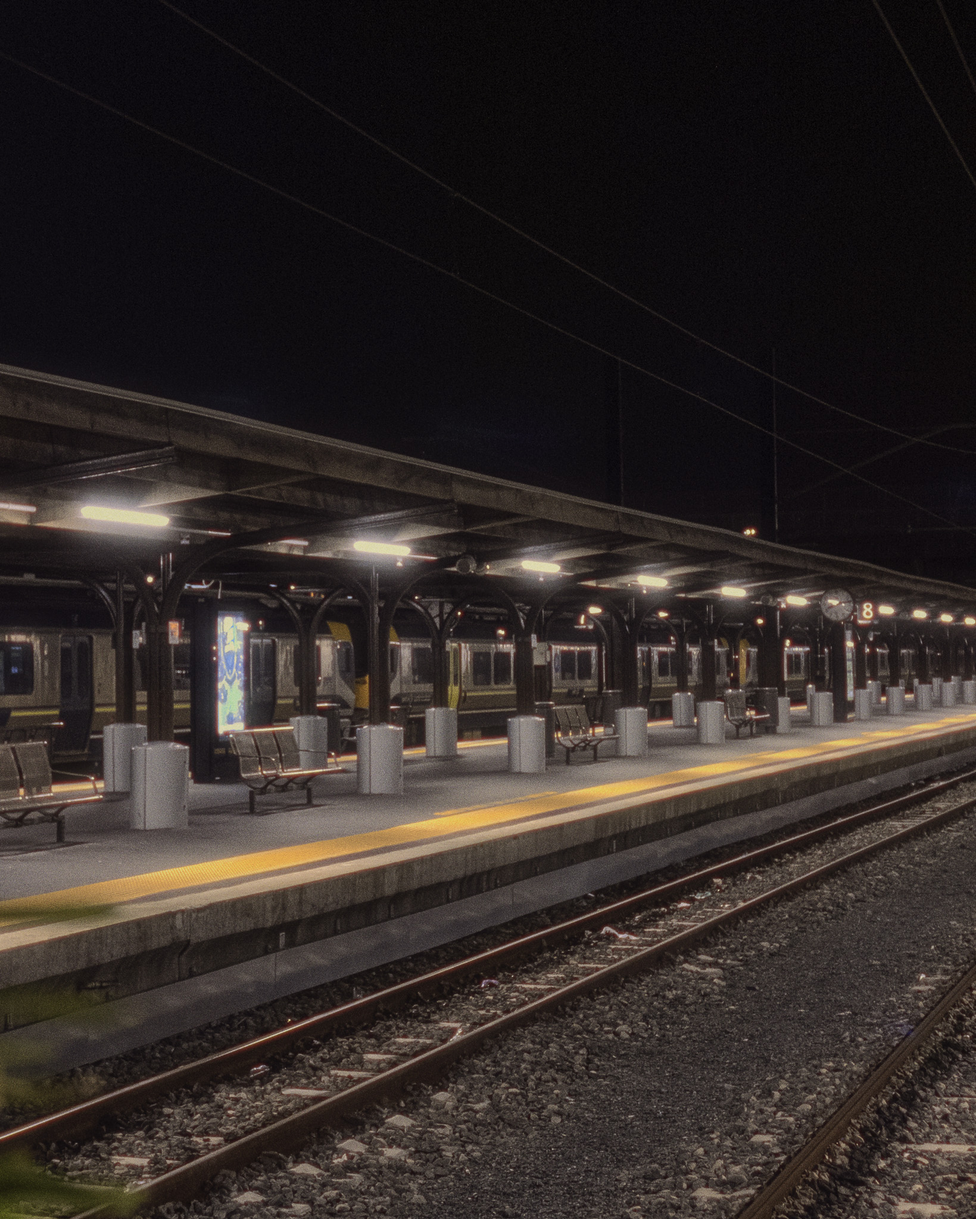
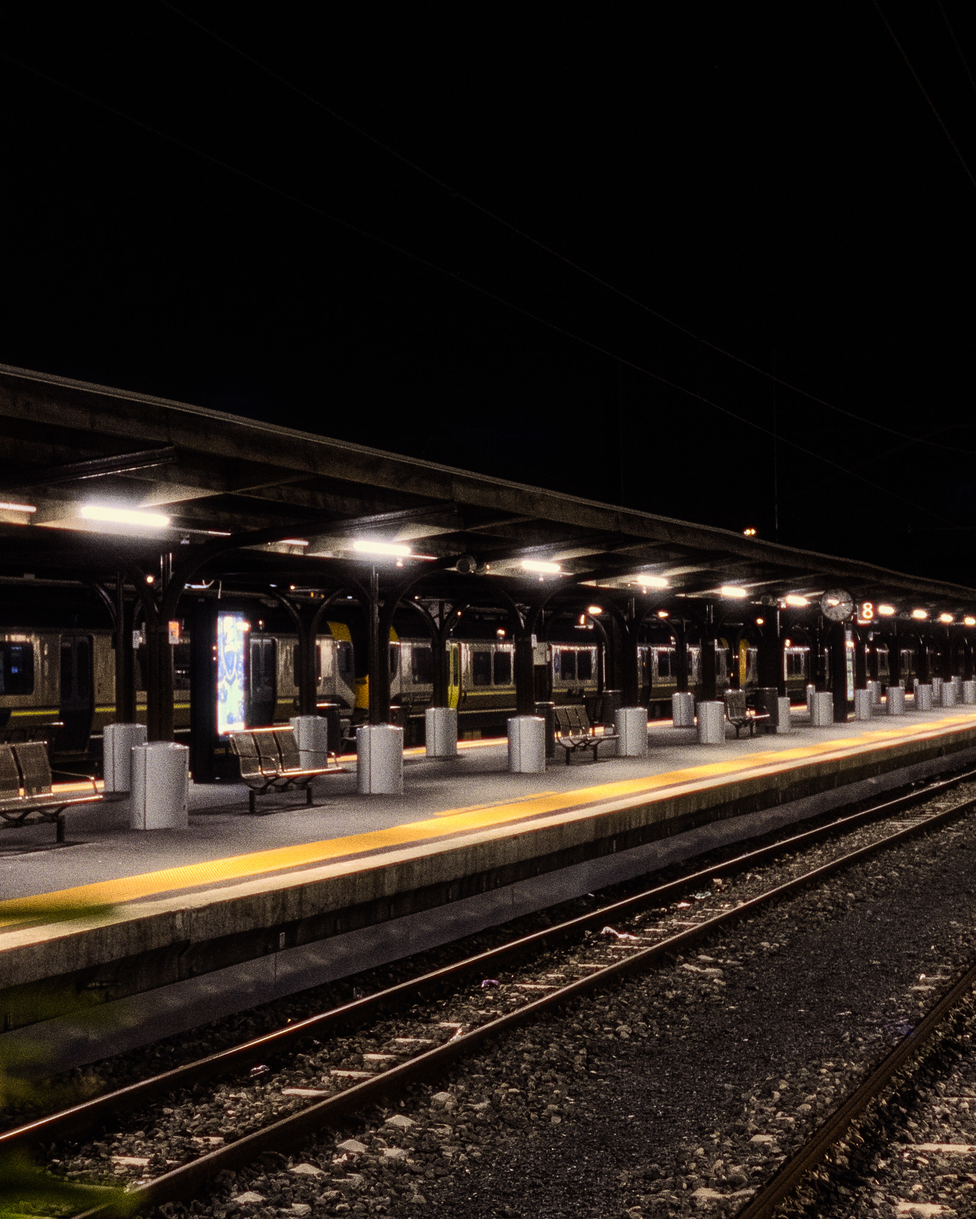
added new images and overhauled the code

Changed region(s): [[0.0, 0.3125, 1.0, 1.0]]

diff --git a/index.html b/index.html
@@ -4,91 +4,110 @@
   <meta charset="UTF-8" />
   <meta name="viewport" content="width=device-width, initial-scale=1" />
   <title>analogpixels</title>
+
+  <!-- Fonts -->
   <link href="https://fonts.googleapis.com/css2?family=Montserrat:wght@700&family=Roboto&display=swap" rel="stylesheet"/>
   <link rel="preconnect" href="https://fonts.googleapis.com">
   <link rel="preconnect" href="https://fonts.gstatic.com" crossorigin>
   <link href="https://fonts.googleapis.com/css2?family=Jost:ital,wght@0,100..900;1,100..900&family=Open+Sans:ital,wght@0,300..800;1,300..800&display=swap" rel="stylesheet">
+
+  <!-- Styles -->
   <link rel="stylesheet" href="styles.css" />
-  
 </head>
-<script>
-  function showGallery(type) {
-    document.getElementById('urban-gallery').classList.remove('active');
-    document.getElementById('car-gallery').classList.remove('active');
-
-    if (type === 'urban') {
-      document.getElementById('urban-gallery').classList.add('active');
-    } else {
-      document.getElementById('car-gallery').classList.add('active');
-    }
-  }
-</script>
-
 <body>
-<nav>
-  <div class="nav-container">
-    <div class="logo">analogpixels</div>
-    <div class="nav-links">
-      <button onclick="showGallery('urban')">Urban</button>
-      <button onclick="showGallery('cars')">Automotive</button>
+
+  <!-- Navbar (fixed) -->
+  <nav>
+    <div class="nav-container">
+      <a href="#" class="logo" onclick="showHome()">analogpixels</a>
+      <div class="nav-links">
+        <button onclick="showGallery('urban')">Urban</button>
+        <button onclick="showGallery('cars')">Automotive</button>
+      </div>
     </div>
-  </div>
-</nav>
+  </nav>
 
+  <!-- Hero Section -->
+  <header id="hero">
+    <img src="src/urban/BT54023-R1-032-14A-2.jpg" alt="Hero Image" class="hero-img active">
+  </header>
 
-<main>
-  <!-- Urban Gallery Wrapper -->
-  <div id="urban-gallery" class="gallery-wrapper active">
-    <section class="gallery">
-      <div class="gallery-item"><img src="src/urban/L2040531.jpg"></div>
-      <div class="gallery-item"><img src="src/urban/L2040670.jpg"></div>
-      <div class="gallery-item"><img src="src/urban/L2040703.jpg"></div>
-      <div class="gallery-item"><img src="src/urban/L2100342.jpg"></div>
-      <div class="gallery-item"><img src="src/urban/L2050137.jpg"></div>
-      <div class="gallery-item"><img src="src/urban/DSC00639.jpg"></div>
-      <div class="gallery-item"><img src="src/urban/L2050300.jpg"></div>
-      <div class="gallery-item"><img src="src/urban/L2100276.jpg"></div>
-      <div class="gallery-item"><img src="src/urban/L2100197.jpg"></div>
-      <div class="gallery-item"><img src="src/urban/L2100211.jpg"></div>
-      <div class="gallery-item"><img src="src/urban/L2100322.jpg"></div>
-      <div class="gallery-item"><img src="src/urban/L2100367.jpg"></div>
+  <main>
+    <!-- Urban Gallery -->
+    <div id="urban-gallery" class="gallery-wrapper">
+      <section class="gallery">
+        <div class="gallery-item"><img src="src/urban/DSC05955.jpg" alt=""></div>
+        <div class="gallery-item"><img src="src/urban/DSC05967.jpg" alt=""></div>
+        <div class="gallery-item"><img src="src/urban/BT54023-R1-066-31A.jpg" alt=""></div>
+        <div class="gallery-item"><img src="src/urban/DSC00639.jpg" alt=""></div>
+        <div class="gallery-item"><img src="src/urban/L2050137.jpg" alt=""></div>
+        <div class="gallery-item"><img src="src/urban/L2050300.jpg" alt=""></div>
+        <div class="gallery-item"><img src="src/urban/L2100367.jpg" alt=""></div>
+      </section>
+    </div>
+
+    <!-- Automotive Gallery -->
+    <div id="car-gallery" class="gallery-wrapper">
+      <section class="gallery">
+        <div class="gallery-item"><img src="src/cars/L2060529.jpg" alt=""></div>
+        <div class="gallery-item"><img src="src/cars/DSC03563.jpg" alt=""></div>
+        <div class="gallery-item"><img src="src/cars/L2090009.jpg" alt=""></div>
+        <div class="gallery-item"><img src="src/cars/DSC01911.jpg" alt=""></div>
+        <div class="gallery-item"><img src="src/cars/DSC01624.jpg" alt=""></div>
+        <div class="gallery-item"><img src="src/cars/DSC03716.jpg" alt=""></div>
+        <div class="gallery-item"><img src="src/cars/DSC05183.jpg" alt=""></div>
+        <div class="gallery-item"><img src="src/cars/L2060861.jpg" alt=""></div>
+      </section>
+    </div>
+
+    <!-- Social -->
+    <section id="social" class="social-section">
+      <a href="https://instagram.com/bach.webp" target="_blank" rel="noopener noreferrer" class="social-icon">
+        <img src="instagram.png" alt="Instagram" />
+      </a>
     </section>
-  </div>
+  </main>
 
-  <!-- Car Gallery Wrapper -->
-  <div id="car-gallery" class="gallery-wrapper">
-    <section class="gallery">
-      <div class="gallery-item"><img src="src/cars/L2060529.jpg"></div>
-      <div class="gallery-item"><img src="src/cars/L2060861.jpg"></div>
-      <div class="gallery-item"><img src="src/cars/L2090009.jpg"></div>
-    </section>
-  </div>
-
-  <section id="social" class="social-section">
-    <a href="https://instagram.com/bach.webp" target="_blank" rel="noopener noreferrer" class="social-icon">
-      <img src="instagram.png" alt="Instagram" />
-    </a>
-  </section>
-</main>
-
-
+  <!-- Footer -->
   <footer>
     <div class="footer-content">
       <span>&copy; 2025 Bach Ta. All rights reserved.</span>
     </div>
   </footer>
 
+  <!-- Script to toggle galleries and hero -->
   <script>
     function showGallery(type) {
+      // Hide hero
+      document.getElementById('hero').style.display = 'none';
+
+      // Hide all galleries
       document.getElementById('urban-gallery').classList.remove('active');
       document.getElementById('car-gallery').classList.remove('active');
 
-      if (type === 'urban') {
+      // Show selected gallery
+      if(type === 'urban'){
         document.getElementById('urban-gallery').classList.add('active');
       } else {
         document.getElementById('car-gallery').classList.add('active');
       }
+
+      // Scroll to top
+      window.scrollTo(0, 0);
+    }
+
+    function showHome() {
+      // Hide galleries
+      document.getElementById('urban-gallery').classList.remove('active');
+      document.getElementById('car-gallery').classList.remove('active');
+
+      // Show hero
+      document.getElementById('hero').style.display = 'block';
+
+      // Scroll to top
+      window.scrollTo(0, 0);
     }
   </script>
+
 </body>
 </html>

diff --git a/styles.css b/styles.css
@@ -1,4 +1,4 @@
-/* Reset & basics */
+/* Reset & Basics */
 * {
   box-sizing: border-box;
   margin: 0;
@@ -7,56 +7,76 @@
 
 body {
   font-family: 'Roboto', sans-serif;
-  background: #121212;  /* dark background */
-  color: #e0e0e0;       /* light gray text */
+  background: #ffffff;
+  color: #121212;
   line-height: 1.6;
   min-height: 100vh;
   display: flex;
   flex-direction: column;
 }
 
-/* Navigation container */
+/* Navbar */
+nav {
+  position: fixed;
+  top: 0;
+  left: 0;
+  width: 100%;
+  z-index: 10;
+  background: #121212; /* semi-transparent over hero */
+}
+
 .nav-container {
   display: flex;
   justify-content: space-between;
   align-items: center;
-  padding: 0.75rem 1rem; /* reduced padding */
-  flex-wrap: wrap;
+  padding: 0.75rem 1rem;
   max-width: 1200px;
   margin: 0 auto;
 }
 
-/* Logo */
 .logo {
   font-family: 'Jost', sans-serif;
   font-weight: 700;
   font-size: 2.2rem;
-  color: #e0e0e0;
+  color: #ffffff;
+  text-decoration: none;
 }
 
-/* Nav links styled as text */
 .nav-links {
-  font-family: 'Roboto', sans-serif;
   display: flex;
   gap: 1.2rem;
 }
 
 .nav-links button {
-  all: unset; /* remove default button styles */
+  all: unset;
   cursor: pointer;
-  color: #aaa;
+  color: #ffffff;
   font-family: 'Roboto', sans-serif;
   font-size: 1rem;
   font-weight: 600;
-  transition: color 0.3s ease;
+  transition: opacity 0.3s ease;
 }
 
-.nav-links button:hover,
-.nav-links button.active {
-  color: #fff;
+.nav-links button:hover {
+  opacity: 0.7;
 }
 
-/* Gallery container toggle */
+/* Hero */
+#hero {
+  margin-top: 60px; /* space for fixed navbar */
+  width: 100%;
+  aspect-ratio: 3/2; /* 2:3 ratio */
+  overflow: hidden;
+}
+
+.hero-img {
+  width: 100%;
+  height: 100%;
+  object-fit: cover;
+  display: block;
+}
+
+/* Galleries */
 .gallery-wrapper {
   display: none;
 }
@@ -65,9 +85,8 @@ body {
   display: block;
 }
 
-/* Gallery layout */
 .gallery {
-  column-count: 4;
+  column-count: 3;
   column-gap: 1.2rem;
   padding: 2rem;
 }
@@ -85,14 +104,10 @@ body {
 
 /* Hover effect */
 .gallery-item:hover img {
-  filter: grayscale(0%) brightness(1); /* full color on hover */
+  filter: grayscale(0%) brightness(1);
 }
 
-.gallery-item:hover .overlay {
-  opacity: 1;
-}
-
-/* Social icons */
+/* Social */
 .social-section {
   text-align: center;
   margin: 3rem 0;
@@ -111,20 +126,19 @@ body {
 
 /* Footer */
 footer {
-  background: #1e1e1e;
+  background: #121212;
   padding: 1rem 2rem;
   text-align: center;
   border-top: 1px solid #333;
   margin-top: auto;
   font-size: 0.9rem;
-  color: #aaa;
+  color: #ffffff;
   display: flex;
   justify-content: center;
   align-items: center;
-  gap: 0.5rem;
 }
 
-/* Responsive tweaks */
+/* Responsive */
 @media (max-width: 800px) {
   .gallery {
     column-count: 2;
@@ -145,7 +159,6 @@ footer {
   }
 
   .nav-links {
-    justify-content: flex-start;
     flex-wrap: wrap;
   }
 }
